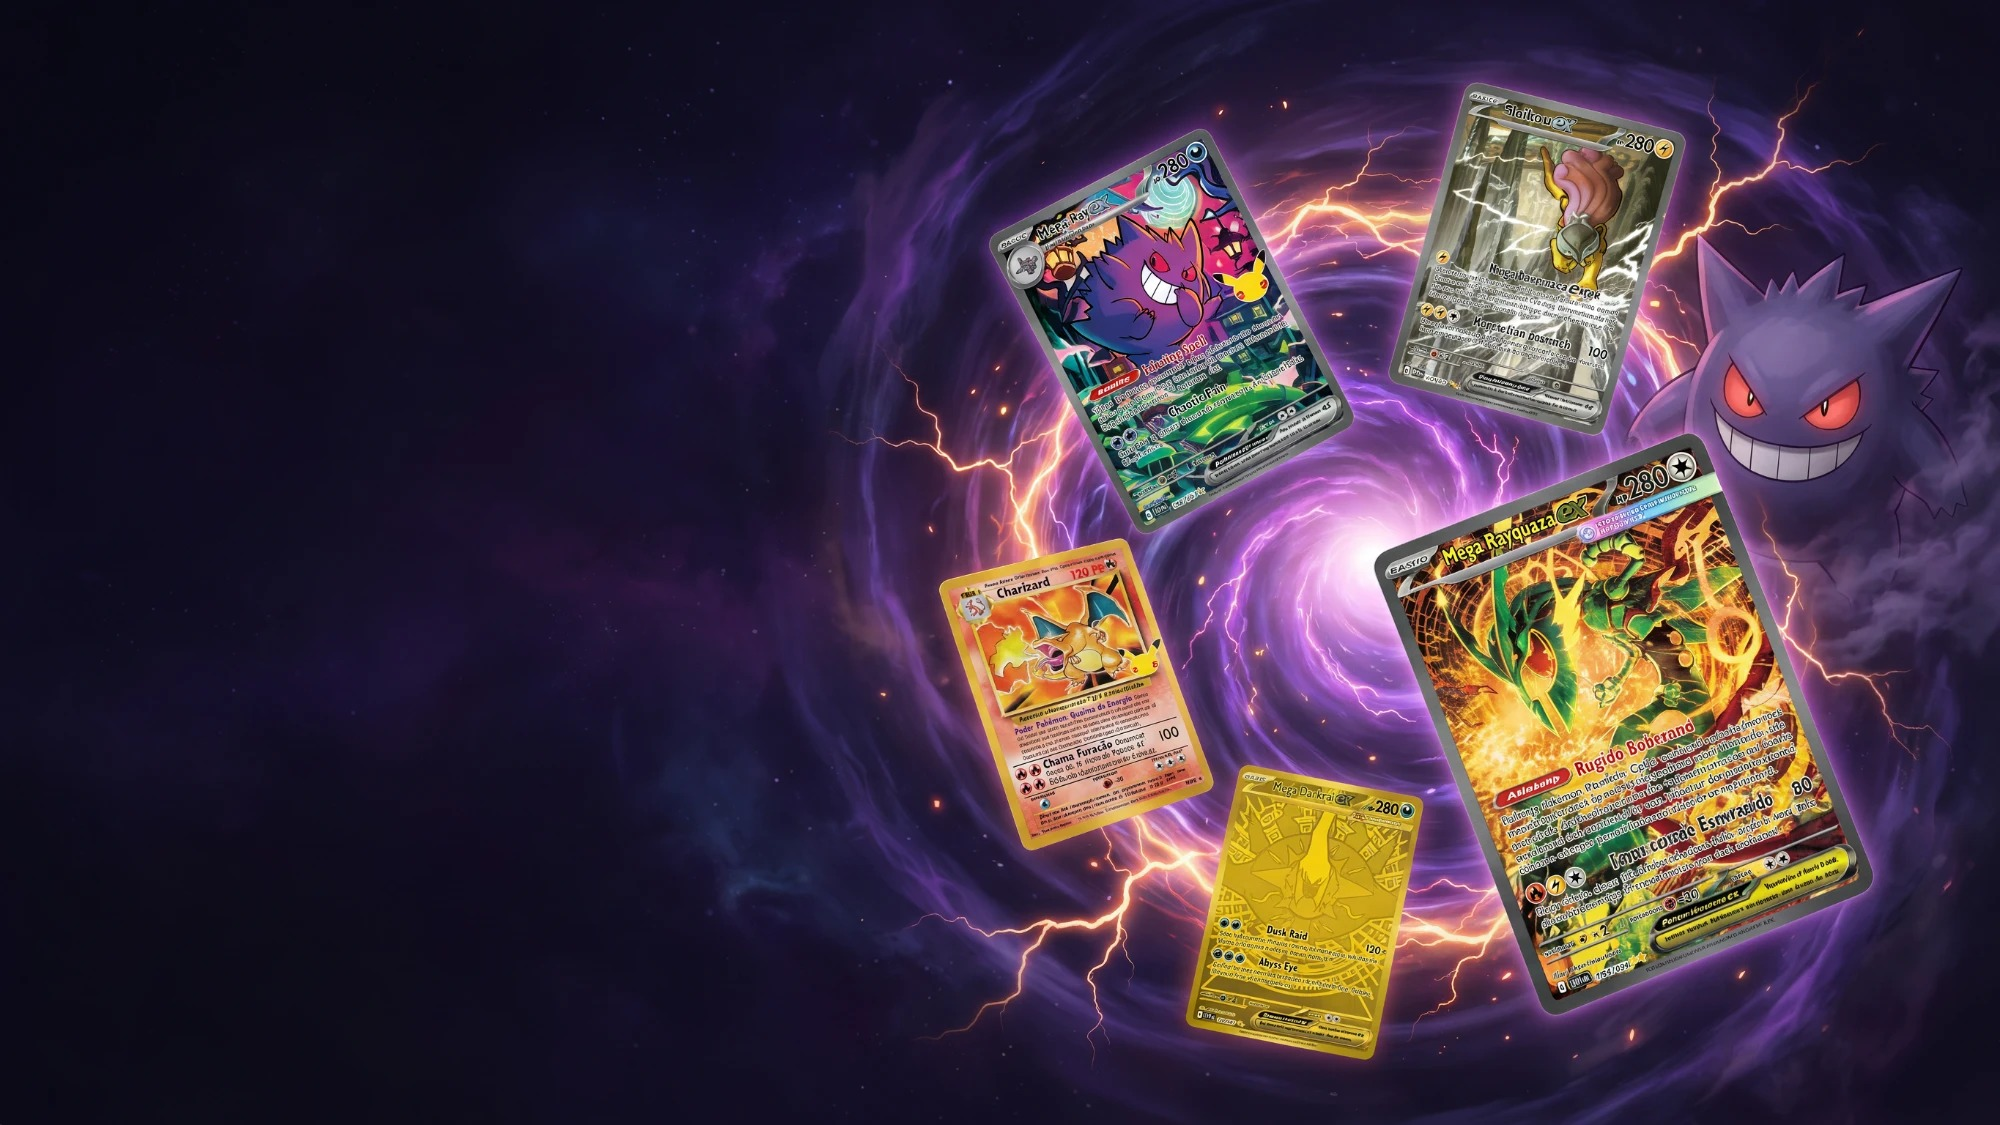
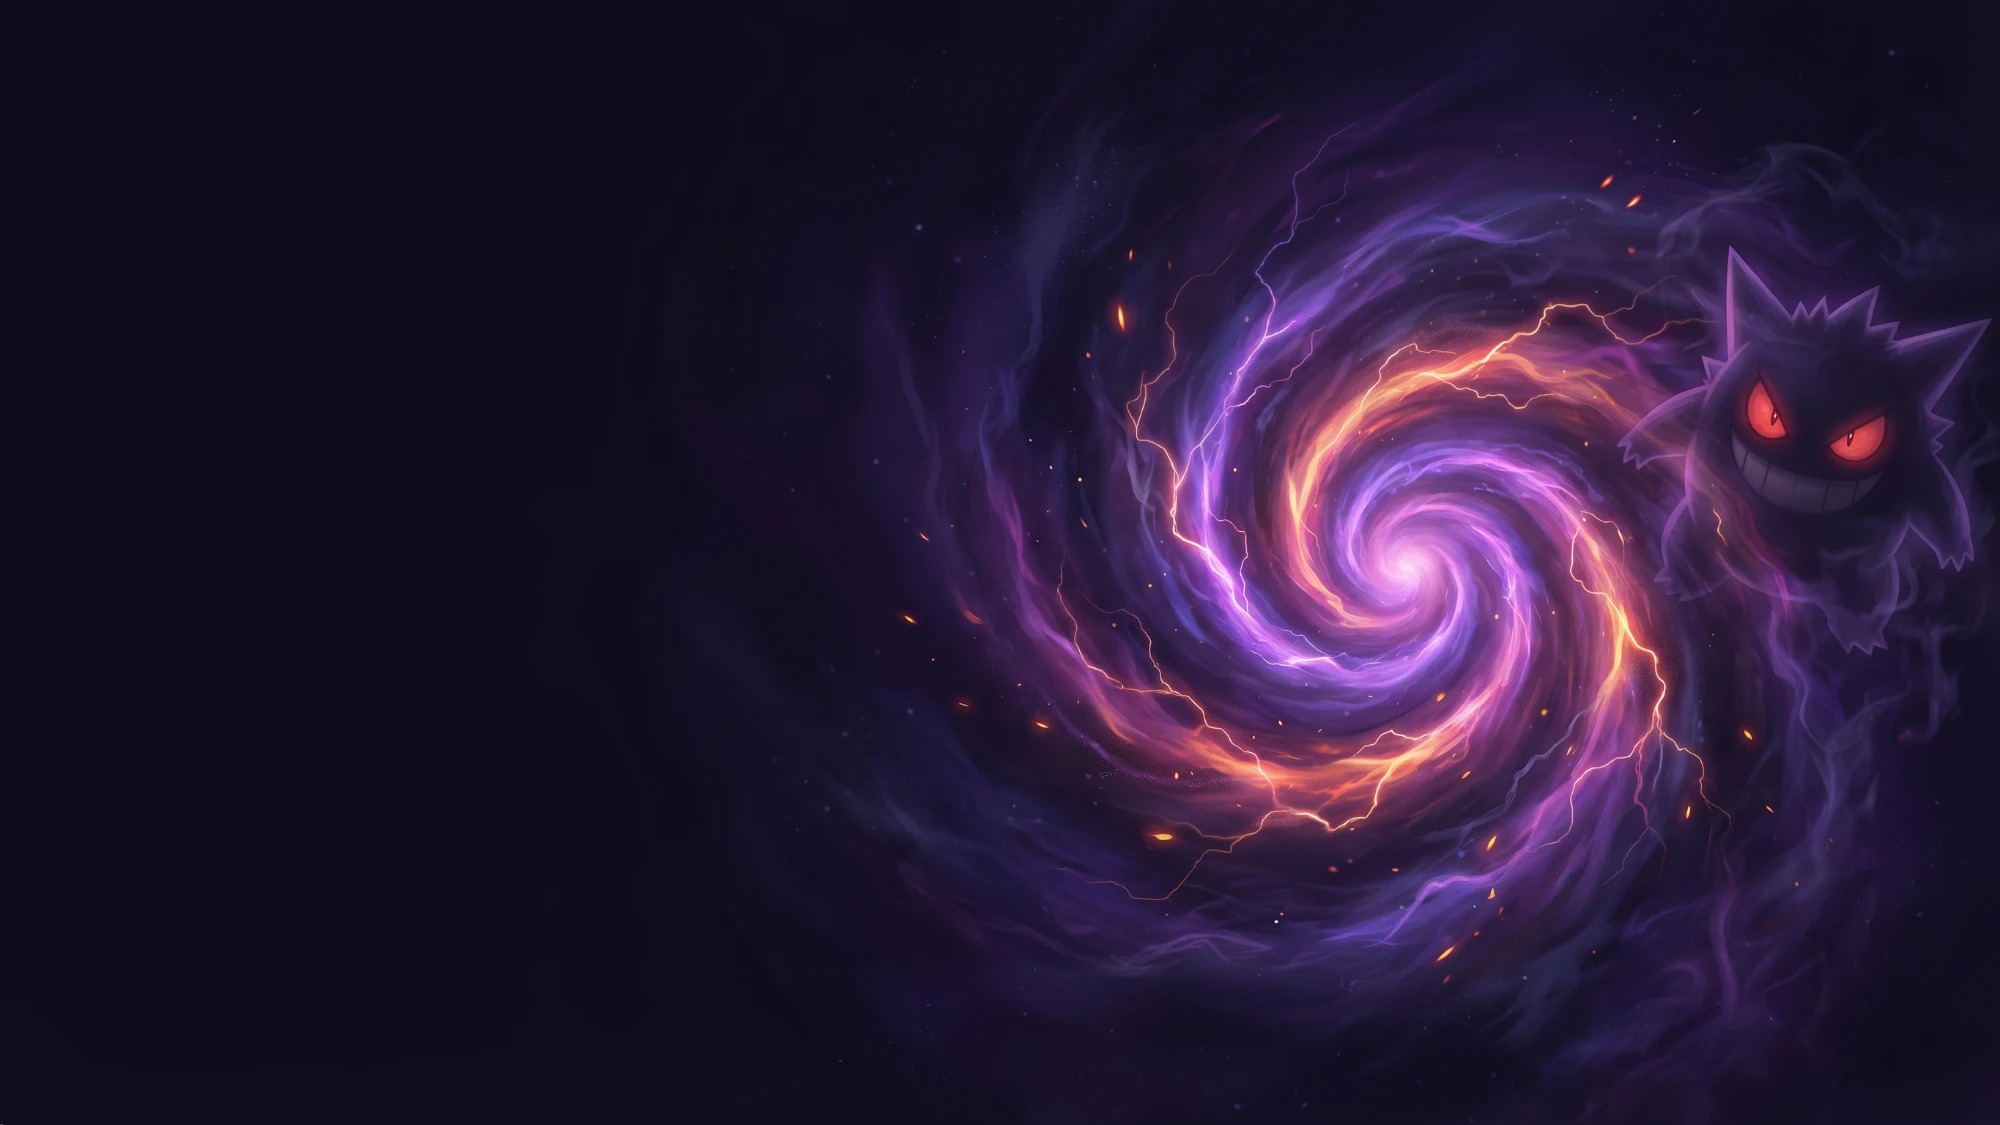
Fundo do hero sem cartas pintadas + cartas reais maiores e arrastáveis
Troca img/hero-bg.jpg por uma versão só com o vórtice e o Gengar (sem
nenhuma carta de IA pintada), resolvendo de vez o texto gibberish que
vinha de pendência. As 5 cartas reais flutuantes ficam bem maiores em
desktop (150–210px) e agora podem ser arrastadas livremente pelo mouse
(pointer events com document.addEventListener durante o gesto, em vez de
setPointerCapture — mais robusto), com efeito de "levantar" a carta
(escala + sombra) enquanto é arrastada.

Claude-Session: https://claude.ai/code/session_01Jk8EXZoJ9YSmSx13zXtaQN

diff --git a/js/hero-cartas.js b/js/hero-cartas.js
@@ -2,13 +2,74 @@
 // hero (img/hero-bg.jpg). Usa os mesmos dados do simulador
 // (js/cartas-reinado-delta.js) e reaproveita o componente de brilho/tilt 3D
 // dos produtos do catálogo (produto-tilt, ver js/tilt.js) — nunca distorce
-// a carta: a imagem real é exibida inteira, com proporção original.
+// a carta: a imagem real é exibida inteira, com proporção original. Em
+// telas com mouse (ver suportaHover abaixo), cada carta também pode ser
+// arrastada livremente pelo vórtice.
 const HeroCartas = (function () {
   // Os 5 hits de maior destaque da coleção (números batem com
   // js/cartas-reinado-delta.js). Se um número não existir nos dados (ou a
   // imagem não carregar), aquele card simplesmente não aparece — nunca
   // mostramos um espaço quebrado ou texto no lugar da arte decorativa.
   const NUMEROS_DESTAQUE = ["141/103", "138/103", "136/103", "137/103", "135/103"];
+
+  const suportaHover = window.matchMedia("(hover: hover) and (pointer: fine)").matches;
+
+  // Limites (em % da própria seção do hero) que impedem a carta de ser
+  // arrastada pra fora da área visível durante o drag.
+  const LIMITE_ESQUERDA = [8, 96];
+  const LIMITE_TOPO = [8, 94];
+
+  function tornarArrastavel(item) {
+    // Ouve pointermove/pointerup no document (não em setPointerCapture) —
+    // padrão clássico de drag, mais robusto entre navegadores do que
+    // depender de captura de ponteiro no próprio elemento.
+    let inicioX = 0;
+    let inicioY = 0;
+    let inicioEsquerdaPct = 0;
+    let inicioTopoPct = 0;
+
+    function mover(evento) {
+      const referencia = item.offsetParent;
+      if (!referencia) return;
+      const retRef = referencia.getBoundingClientRect();
+
+      const deltaXPct = ((evento.clientX - inicioX) / retRef.width) * 100;
+      const deltaYPct = ((evento.clientY - inicioY) / retRef.height) * 100;
+
+      const novaEsquerda = Math.max(LIMITE_ESQUERDA[0], Math.min(LIMITE_ESQUERDA[1], inicioEsquerdaPct + deltaXPct));
+      const novoTopo = Math.max(LIMITE_TOPO[0], Math.min(LIMITE_TOPO[1], inicioTopoPct + deltaYPct));
+
+      item.style.left = novaEsquerda + "%";
+      item.style.top = novoTopo + "%";
+    }
+
+    function soltar() {
+      item.classList.remove("arrastando");
+      document.removeEventListener("pointermove", mover);
+      document.removeEventListener("pointerup", soltar);
+      document.removeEventListener("pointercancel", soltar);
+    }
+
+    item.addEventListener("pointerdown", (evento) => {
+      if (evento.pointerType === "mouse" && evento.button !== 0) return;
+      const referencia = item.offsetParent;
+      if (!referencia) return;
+
+      const retRef = referencia.getBoundingClientRect();
+      const retItem = item.getBoundingClientRect();
+
+      inicioX = evento.clientX;
+      inicioY = evento.clientY;
+      inicioEsquerdaPct = ((retItem.left + retItem.width / 2 - retRef.left) / retRef.width) * 100;
+      inicioTopoPct = ((retItem.top + retItem.height / 2 - retRef.top) / retRef.height) * 100;
+
+      item.classList.add("arrastando");
+      document.addEventListener("pointermove", mover);
+      document.addEventListener("pointerup", soltar);
+      document.addEventListener("pointercancel", soltar);
+      evento.preventDefault();
+    });
+  }
 
   function montar() {
     const container = document.getElementById("hero-cartas");
@@ -48,6 +109,7 @@ const HeroCartas = (function () {
       container.appendChild(item);
 
       Tilt.ativar(tilt);
+      if (suportaHover) tornarArrastavel(item);
     });
   }
 

diff --git a/css/style.css b/css/style.css
@@ -533,7 +533,7 @@ a {
 
 @media (min-width: 1024px) {
   .hero {
-    min-height: 560px;
+    min-height: 600px;
   }
 
   .hero-titulo {
@@ -551,11 +551,31 @@ a {
     pointer-events: none;
   }
 
+  /* Cada carta é arrastável (ver js/hero-cartas.js): left/top em % são
+     atualizados direto no style inline durante o arraste, sobrescrevendo
+     a posição-base de .hero-carta--N (maior especificidade do inline). O
+     rotate/centralização continuam vindo da classe, só a posição muda. */
   .hero-carta {
     position: absolute;
-    width: 108px;
+    width: 170px;
     pointer-events: auto;
-    filter: drop-shadow(0 10px 20px rgba(0, 0, 0, 0.45));
+    cursor: grab;
+    touch-action: none;
+    filter: drop-shadow(0 14px 26px rgba(0, 0, 0, 0.5));
+  }
+
+  .hero-carta.arrastando {
+    cursor: grabbing;
+    z-index: 5;
+    filter: drop-shadow(0 20px 38px rgba(0, 0, 0, 0.65));
+  }
+
+  .hero-carta.arrastando .hero-carta-tilt {
+    transform: scale(1.08);
+  }
+
+  .hero-carta-tilt {
+    transition: transform 150ms ease-out;
   }
 
   .hero-carta-flutuante {
@@ -563,36 +583,40 @@ a {
     animation-delay: var(--flutuar-atraso, 0ms);
   }
 
+  .hero-carta.arrastando .hero-carta-flutuante {
+    animation-play-state: paused;
+  }
+
   .hero-carta--1 {
-    left: 61%;
-    top: 18%;
-    width: 128px;
-    transform: translate(-50%, -50%) rotate(-7deg);
+    left: 58%;
+    top: 24%;
+    width: 210px;
+    transform: translate(-50%, -50%) rotate(-6deg);
   }
 
   .hero-carta--2 {
-    left: 54%;
-    top: 62%;
-    transform: translate(-50%, -50%) rotate(6deg);
+    left: 50%;
+    top: 68%;
+    transform: translate(-50%, -50%) rotate(7deg);
   }
 
   .hero-carta--3 {
-    left: 75%;
-    top: 40%;
-    transform: translate(-50%, -50%) rotate(-4deg);
+    left: 74%;
+    top: 44%;
+    transform: translate(-50%, -50%) rotate(-5deg);
   }
 
   .hero-carta--4 {
     left: 85%;
-    top: 68%;
-    transform: translate(-50%, -50%) rotate(9deg);
+    top: 72%;
+    transform: translate(-50%, -50%) rotate(10deg);
   }
 
   .hero-carta--5 {
-    left: 90%;
-    top: 22%;
-    width: 92px;
-    transform: translate(-50%, -50%) rotate(-10deg);
+    left: 91%;
+    top: 26%;
+    width: 150px;
+    transform: translate(-50%, -50%) rotate(-11deg);
   }
 }
 

diff --git a/CLAUDE.md b/CLAUDE.md
@@ -29,9 +29,7 @@ Em `.claude/skills/`: `ecommerce-visual-designer`, `digital-marketing-tcg`, `sen
 
 ## Pendências
 
-- [ ] **Texto gibberish nas 5 cartas da arte de fundo do hero** (`img/hero-bg.jpg`, gerada por IA): o desfoque seletivo tentado pra disfarçar ficou ruim visualmente e foi revertido — a imagem atual (em alta resolução) ainda tem o texto ilegível/sem sentido nas cartas. Precisa de outra abordagem (regerar a arte sem texto, ou outro tratamento) quando o Nilson quiser retomar.
-
-- [ ] **Imagens das cartas do simulador vêm de `deckcerto.com` (hotlink)**: o JSON que o Nilson mandou (`js/cartas-reinado-delta.js`) aponta pra URLs de imagem hospedadas num site de terceiros. Funciona hoje, mas é uma dependência fora do nosso controle — se o deckcerto.com tirar essas imagens do ar ou bloquear hotlink, as cartas passam a mostrar só o nome (fallback já implementado, ver `js/simulador-ui.js`). Se quiser, dá pra baixar e hospedar essas imagens dentro do projeto (`img/cartas/`) pra não depender de terceiros.
+- [ ] **Imagens das cartas do simulador (e das cartas flutuantes do hero) vêm de `deckcerto.com` (hotlink)**: o JSON que o Nilson mandou (`js/cartas-reinado-delta.js`) aponta pra URLs de imagem hospedadas num site de terceiros. Funciona hoje, mas é uma dependência fora do nosso controle — se o deckcerto.com tirar essas imagens do ar ou bloquear hotlink, as cartas passam a mostrar só o nome (fallback já implementado, ver `js/simulador-ui.js`). Se quiser, dá pra baixar e hospedar essas imagens dentro do projeto (`img/cartas/`) pra não depender de terceiros.
 
 - [ ] **Simulador de abertura de pacotes**: hoje é só um teaser "Em breve" (`#simulador` no HTML). Se o Nilson quiser construir de verdade, precisa definir as regras (quais cartas podem sair, raridades, taxas).
 - [ ] **Link do Grupo VIP**: hoje o link da navbar abre uma conversa no WhatsApp perguntando sobre o grupo (ainda não existe um grupo de verdade). Trocar por um link de convite quando o grupo existir.
@@ -67,7 +65,8 @@ Em `.claude/skills/`: `ecommerce-visual-designer`, `digital-marketing-tcg`, `sen
   - Entrada do modal com leve zoom-in, cada nova carta aparece com uma pequena animação de entrada (em vez de só trocar de conteúdo), miniaturas do resumo final entram em cascata, e o valor total conta progressivamente até o número final em vez de aparecer pronto.
   - Toda a parte de partículas/flash/raios/tremor é **pulada inteiramente em JS** quando o usuário pediu `prefers-reduced-motion` (não só neutralizada via CSS) — gerar dezenas de elementos de partícula pra uma transição de 0.01ms não serve pra nada.
   - Testado em mobile (390px), desktop (1280px) e com `prefers-reduced-motion: reduce`: fluxo completo (abrir → rasgar → virar as 6 cartas → resumo) sem erros reais de console, incluindo forçando a saída de um hit SIR pra conferir a aura/borda dourada.
-- [x] Cartas reais da coleção flutuando sobre o fundo do hero (`js/hero-cartas.js`): 5 cartas de maior destaque (Mega Rayquaza ex 141 e 138, Raikou ex, Mega Golurk ex, Mega Golisopod ex — mesma fonte de dados do simulador, `js/cartas-reinado-delta.js`) aparecem como `<img>` de verdade, com `object-fit:contain` e proporção original (nunca esticam nem cortam a carta), reaproveitando o componente de brilho/tilt 3D do catálogo (`produto-tilt`). Em desktop (≥1024px) ficam posicionadas ao redor do vórtice do lado direito da arte, flutuando bem suavemente (`transform`, sem afetar layout); em mobile viram uma fileira horizontal com rolagem, abaixo do texto, sem sobrepor nada. Se a imagem de alguma carta não carregar, ela simplesmente some (nunca mostra espaço quebrado). De quebra, ajuda visualmente a disfarçar o texto gibberish das cartas pintadas no fundo (pendência abaixo), já que várias ficam cobertas pelas cartas reais — mas não é uma correção da imagem em si.
+- [x] Foto de fundo do hero trocada de vez por uma versão **sem nenhuma carta pintada** (só o vórtice + Gengar) — o Nilson mandou essa nova arte, o que resolve de vez a pendência antiga do texto gibberish das cartas de IA (não existe mais nenhuma carta falsa no fundo pra ter texto errado).
+- [x] Cartas reais da coleção flutuando sobre o fundo do hero (`js/hero-cartas.js`), e **arrastáveis com o mouse**: 5 cartas de maior destaque (Mega Rayquaza ex 141 e 138, Raikou ex, Mega Golurk ex, Mega Golisopod ex — mesma fonte de dados do simulador, `js/cartas-reinado-delta.js`) aparecem como `<img>` de verdade, com `object-fit:contain` e proporção original (nunca esticam nem cortam a carta), reaproveitando o componente de brilho/tilt 3D do catálogo (`produto-tilt`). Em desktop (≥1024px, telas com mouse) ficam grandes (150–210px) e espalhadas ao redor do vórtice do lado direito da arte, flutuando suavemente, e **cada uma pode ser arrastada e solta em qualquer lugar da seção** (arraste via pointer events, com um leve "levantar" visual — escala e sombra mais fortes — enquanto segura); em mobile viram uma fileira horizontal com rolagem, abaixo do texto, sem arraste e sem sobrepor nada. Se a imagem de alguma carta não carregar, ela simplesmente some (nunca mostra espaço quebrado). (Pendência de engenharia resolvida no caminho: a 1ª versão do arraste usava `setPointerCapture`, que em teste automatizado parava de receber eventos de movimento no meio do gesto — trocado pelo padrão mais clássico de ouvir `pointermove`/`pointerup` no `document` durante o arraste, mais robusto.)
 - [x] Animação da arte de fundo refeita: a primeira versão (zoom + "estrelas cadentes") ficou ruim segundo o Nilson ("fica uma barrinha branca passando"). Removidas as estrelas cadentes. Ficou só uma deriva bem discreta e contínua (escala 1.015↔1.03 + leve translação, 34s, ease-in-out) pra dar sensação de página viva sem chamar atenção pra si mesma — respeita `prefers-reduced-motion` (herdado da regra global já existente).
 - [x] Foto de fundo do hero trocada por uma versão em alta resolução (2000x1125) — a primeira (1024x576) ficava borrada ao esticar pra cobrir telas largas.
 - [x] Alinhamento do hero ajustado para bater exatamente com a borda esquerda da navbar (mesmo padding, `--space-5`), em vez de ficar centralizado/flutuando — `.hero-fundo` (full-bleed, carrega a arte/gradiente/estrelas) agora é um wrapper separado de `.hero` (que só contém o texto e tem o mesmo padding horizontal da navbar).
